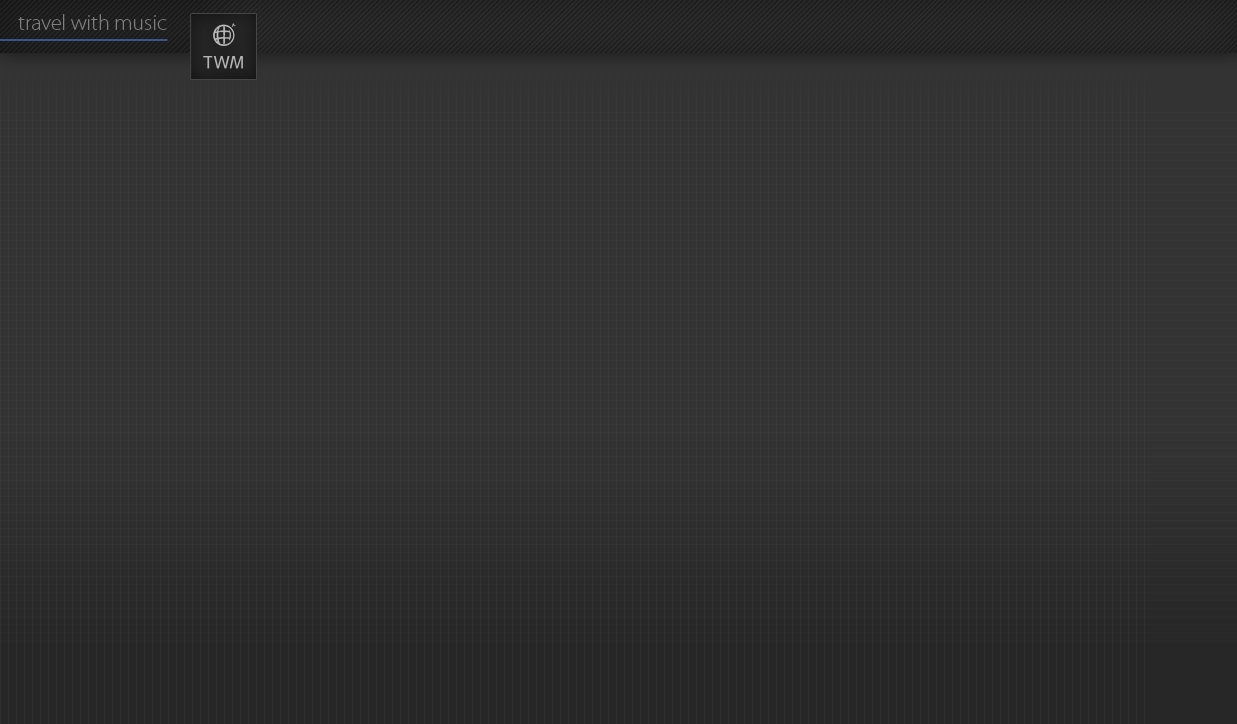
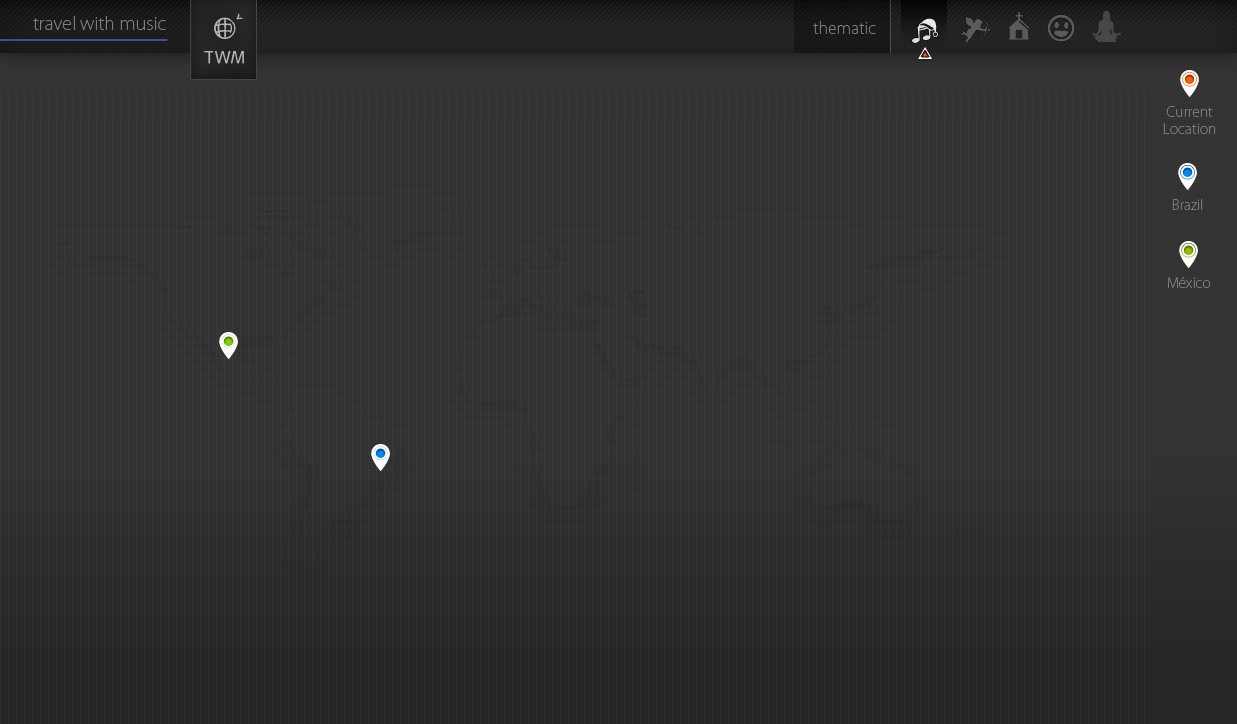
frontEnd improvements

diff --git a/css/main.css b/css/main.css
@@ -107,6 +107,23 @@ button {width: auto; overflow: visible;}
 
 /* app styles*/
 
-html, body {background:#333;color:white;}
-header {width:100%;height:120px;float:left;display:block;}
-p {font-size:5em;}
+html, body {background:#333;color:white;background:url(../img/bg.png) repeat-x 0 70px;}
+header {width:100%;height:120px;float:left;display:block;background:url(../img/bg-top.png) repeat-x;height:94px;min-width:600px;}
+p {font-size:1em;}
+.wrapper{width:100%;height:700px;float:left;overflow:hidden;}
+
+nav {float:right;height:54px;width:370px;margin-right:40px;
+
+background-image: url(../img/thematic.png), url(../img/thematic-icons.png);
+background-repeat: no-repeat, no-repeat;
+background-position: left, 110px 0;
+
+}
+
+
+nav ul {float:right;width:250px;}
+nav ul li a {width:37px;height:68px;display:block;margin-right:13px;text-indent:-9999px;float:left;}
+
+nav ul li a.active, nav a:hover {background:url(../img/thematic-icons-over.png) no-repeat center top;}
+
+

diff --git a/index.html b/index.html
@@ -15,10 +15,21 @@
 </head>
 <body>
 
+<div class="wrapper">
 <header>
-<p>renato</p>
-</header>
+<img src="img/logo.png" alt="Travel with Music" />
+<nav>
+<ul>
+<li><a href="#" class="active">Thema 1</a></li>
+<li><a href="#">Thema 2</a></li>
+<li><a href="#">Thema 3</a></li>
+<li><a href="#">Thema 4</a></li>
+<li><a href="#">Thema 5</a></li>
+</ul>
 
+</nav>
+</header>
+</div>
 
 </body>
 </html>
